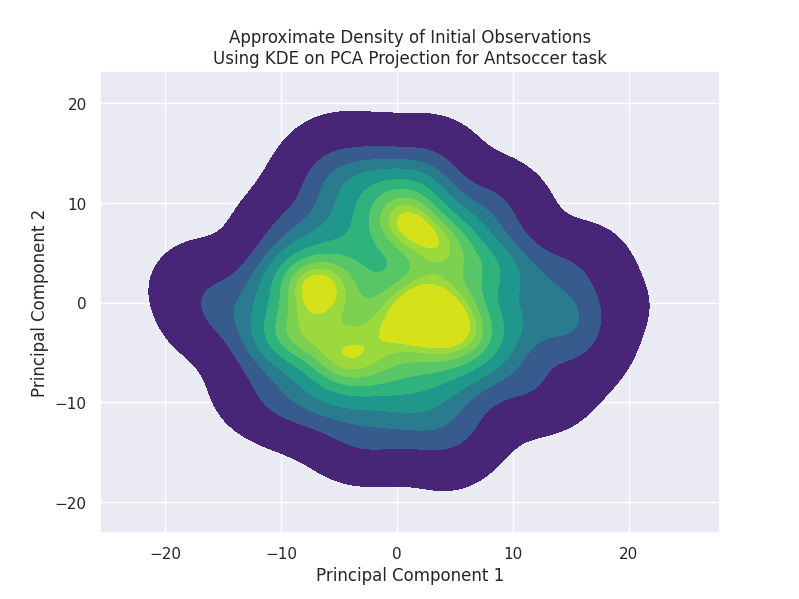
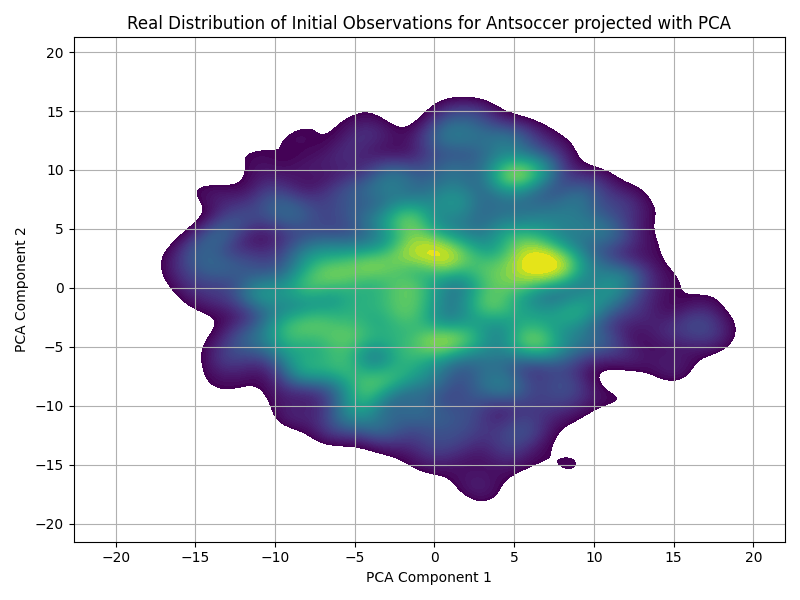
adding generated distribution plots

diff --git a/distribution_visualizer.py b/distribution_visualizer.py
@@ -1,0 +1,104 @@
+import flax
+import ogbench
+from sklearn.decomposition import PCA
+import yaml
+from argparser import build_env_model_config_from_args, get_env_model_argparser
+from envmodel.initial_observation import Decoder
+from utils.data_loader import InitialObservationLoader
+import matplotlib.pyplot as plt
+import seaborn as sns
+import numpy as np
+import jax.numpy as jnp
+import jax
+
+from utils.tasks import get_task_title
+
+
+def plot_pca_distribution(data: np.ndarray, title: str):
+    pca = PCA(n_components=2)
+    data_pca = pca.fit_transform(data)
+
+    print(f"Explained variance ratio: {pca.explained_variance_ratio_}")
+
+    plt.figure(figsize=(8, 6))
+    sns.kdeplot(
+        x=data_pca[:, 0],
+        y=data_pca[:, 1],
+        fill=True,
+        cmap="viridis",
+        bw_adjust=0.5,
+        levels=100,
+        thresh=0.05,
+    )
+    plt.title(title)
+    plt.xlabel("PCA Component 1")
+    plt.ylabel("PCA Component 2")
+    plt.grid(True)
+    plt.tight_layout()
+    plt.show()
+    plt.close()
+
+
+args = get_env_model_argparser().parse_args()
+config = build_env_model_config_from_args(args)
+
+env, train_dataset, val_dataset = ogbench.make_env_and_datasets(
+    config.env_name, config.data_directory
+)
+
+train_dataloader = InitialObservationLoader(train_dataset)
+val_dataloader = InitialObservationLoader(val_dataset)
+
+real_dataset = np.concatenate(
+    [train_dataloader.dataset["observations"], val_dataloader.dataset["observations"]],
+    axis=0,
+)
+
+plot_pca_distribution(
+    real_dataset,
+    f"Real Distribution of Initial Observations for {get_task_title(config.env_name)} projected with PCA",
+)
+
+env_model_config_path = (
+    config.save_directory
+    / config.env_name
+    / "env_models"
+    / "initial_observation_config.yaml"
+)
+if env_model_config_path.exists():
+    with open(env_model_config_path, "r") as f:
+        model_config = yaml.unsafe_load(f)
+else:
+    raise FileNotFoundError(
+        f"Configuration file not found at {env_model_config_path}. Please ensure the configuration has been set."
+    )
+
+model = Decoder(
+    output_dimension=train_dataset["observations"].shape[-1],
+    hidden_dims=model_config["hidden_dims"][::-1],
+)
+
+env_model_path = (
+    config.save_directory / config.env_name / "env_models" / "initial_observation.pt"
+)
+if env_model_path.exists():
+    with open(env_model_path, "rb") as f:
+        params_bytes = f.read()
+else:
+    raise FileNotFoundError(
+        f"Model file not found at {env_model_path}. Please ensure the model has been trained."
+    )
+
+params = {
+    "params": flax.serialization.from_bytes(None, params_bytes)["params"]["decoder"]
+}
+
+latent_dim = model_config["latent_dim"]
+sampled_noise = jax.random.normal(jax.random.PRNGKey(0), shape=(1100, latent_dim))
+
+generated_samples = model.apply(params, sampled_noise)
+
+plot_pca_distribution(
+    generated_samples,
+    f"Generated Distribution of Initial Observations for {get_task_title(config.env_name)} projected with PCA",
+)

diff --git a/envmodel/initial_observation.py b/envmodel/initial_observation.py
@@ -36,7 +36,7 @@ class InitialObservationEnvModel(nn.Module):
 
     def setup(self):
         self.encoder = Encoder(self.latent_dimension, self.hidden_dims)
-        self.decoder = Decoder(self.observation_dimension, self.hidden_dims)
+        self.decoder = Decoder(self.observation_dimension, self.hidden_dims[::-1])
 
     def reparameterize(self, key, mu, logvar):
         std = jnp.exp(0.5 * logvar)
@@ -53,7 +53,11 @@ class InitialObservationEnvModel(nn.Module):
 
 
 def vae_loss(
-    model: nn.Module, params: Any, rng: jax.Array, batch: Dict[str, jnp.ndarray]
+    model: nn.Module,
+    params: Any,
+    rng: jax.Array,
+    batch: Dict[str, jnp.ndarray],
+    reconstruction_weight: float
 ) -> Tuple[jnp.ndarray, Tuple[Dict[str, jnp.ndarray], jax.Array]]:
     rng, key = jax.random.split(rng)
     reconstructed_observations, (mu, logvar) = model.apply(params, key=key, **batch)
@@ -63,7 +67,7 @@ def vae_loss(
     )
     kl = -0.5 * jnp.mean(1 + logvar - mu**2 - jnp.exp(logvar))
 
-    loss = reconstruction_loss + kl
+    loss = (reconstruction_weight * reconstruction_loss + kl) / (reconstruction_weight + 1)
 
     logs = {
         "reconstruction_loss": reconstruction_loss,

diff --git a/argparser.py b/argparser.py
@@ -200,14 +200,21 @@ def get_env_model_argparser() -> argparse.ArgumentParser:
         "--model.termination_true_weight",
         type=float,
         default=30.0,
-        help="Weight for the true class in the termination loss in the baseline model.",
+        help="Weight for the true class in the termination loss in the env model.",
     )
 
     parser.add_argument(
         "--model.termination_weight",
         type=float,
         default=1.0,
-        help="Weight for the termination loss in the baseline model.",
+        help="Weight for the termination loss in the env model.",
+    )
+
+    parser.add_argument(
+        "--model.reconstruction_weight",
+        type=float,
+        default=1.0,
+        help="Weight for the reconstruction loss in the env model.",
     )
 
     parser.add_argument(

diff --git a/train_env_model.py b/train_env_model.py
@@ -70,7 +70,10 @@ elif config.model == "initial_observation":
         hidden_dims=config.model_config["hidden_dims"],
     )
 
-    loss_fn = vae_loss
+    loss_fn = partial(
+        vae_loss,
+        reconstruction_weight=config.model_config["reconstruction_weight"],
+    )
 else:
     raise ValueError(f"Unknown model type: {args.model}")
 
